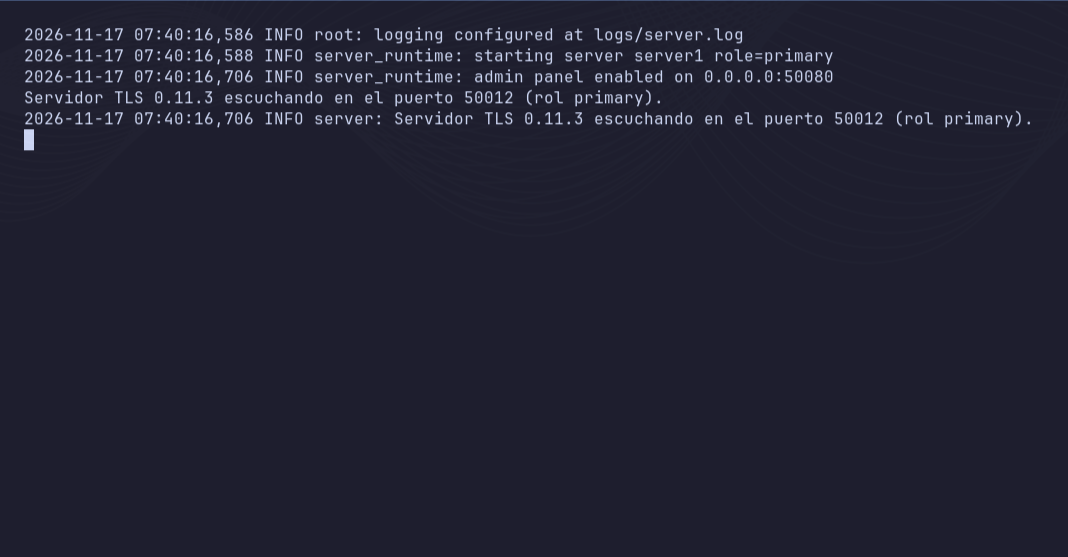
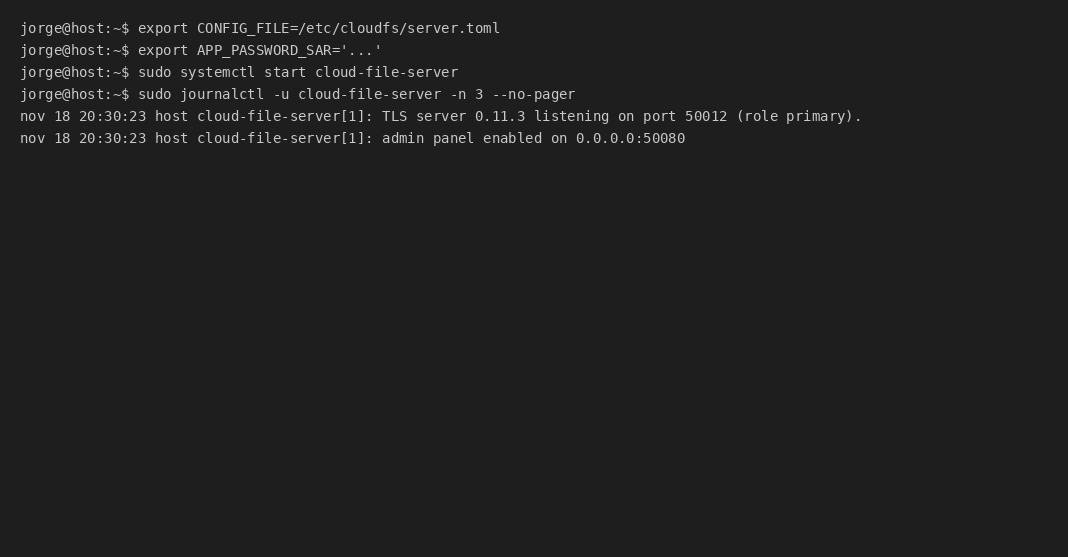
fix: translate remaining Spanish strings and recapture screenshots

Changed region(s): [[0.0, 0.0305, 0.9579, 0.2747]]

diff --git a/server_admin.py b/server_admin.py
@@ -512,12 +512,12 @@ button.secondary {{ background: transparent; color: var(--ehu-blue); border: 1px
                 )
             )
         body = """
-        <div class="card"><h2>Crear usuario</h2>
+        <div class="card"><h2>Create user</h2>
           <form method="post" action="/users">
             <input type="hidden" name="csrf" value="{csrf}">
             <input name="username" placeholder="Username">
             <input type="password" name="password" placeholder="Password">
-            <button type="submit">Crear</button>
+            <button type="submit">Create</button>
           </form>
         </div>
         <div class="card"><h2>Users</h2>
@@ -595,7 +595,7 @@ button.secondary {{ background: transparent; color: var(--ehu-blue); border: 1px
                 )
                 self._redirect("/users")
             else:
-                self._error_page("Acción de usuario no válida.", session=session)
+                self._error_page("Invalid user action.", session=session)
         elif path == "/shares/revoke":
             self.service.revoke_share(
                 self._form_value(form, "owner"),
